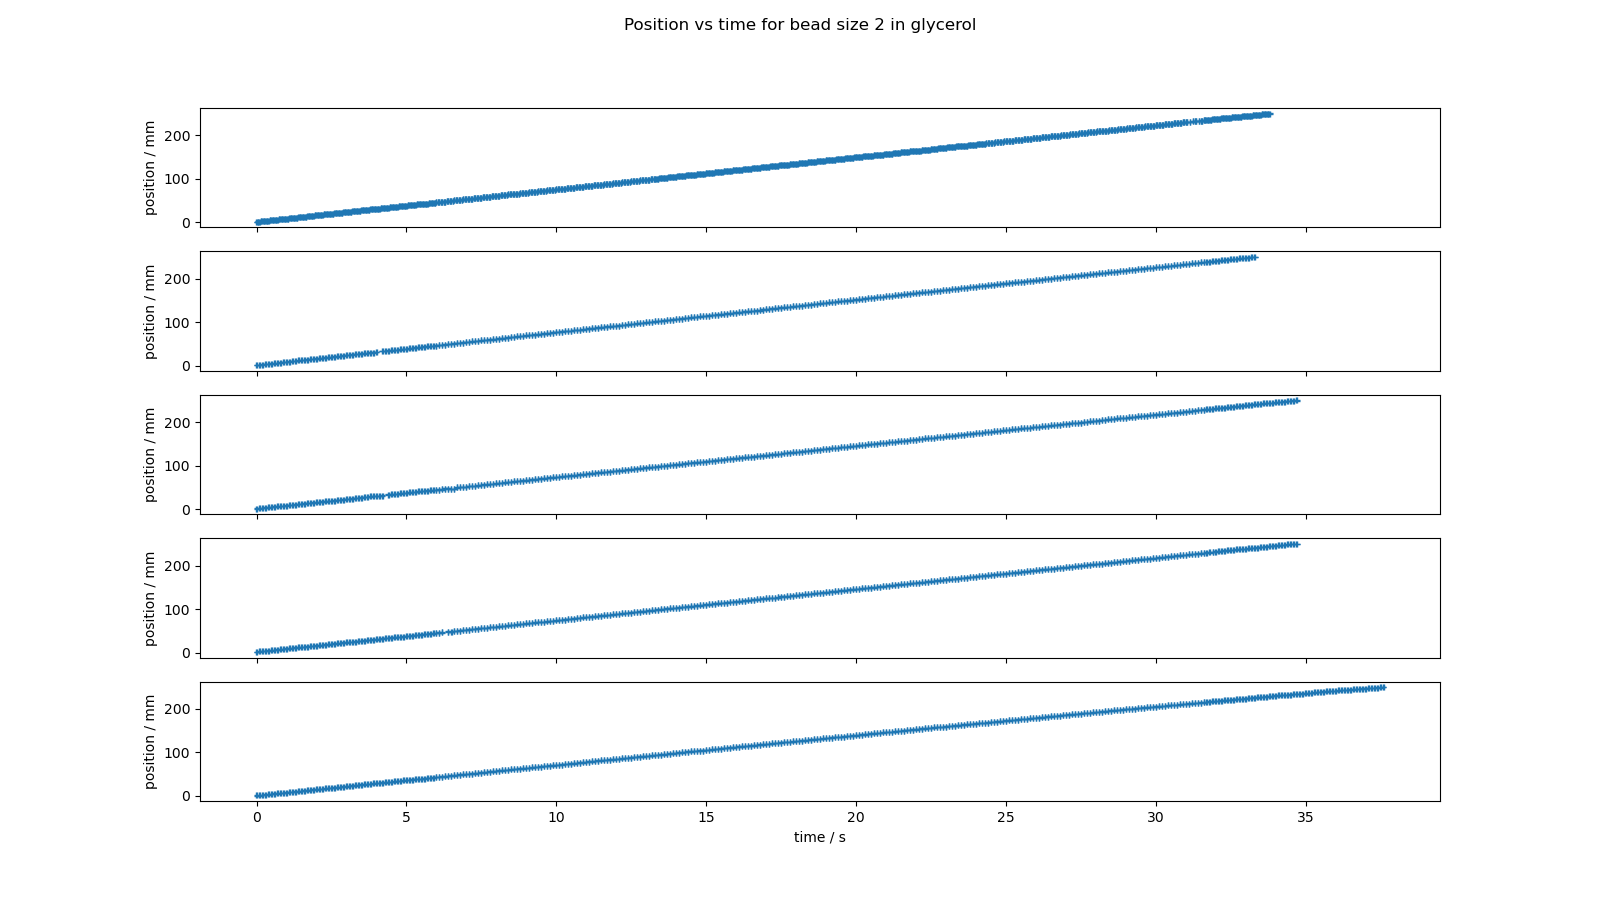
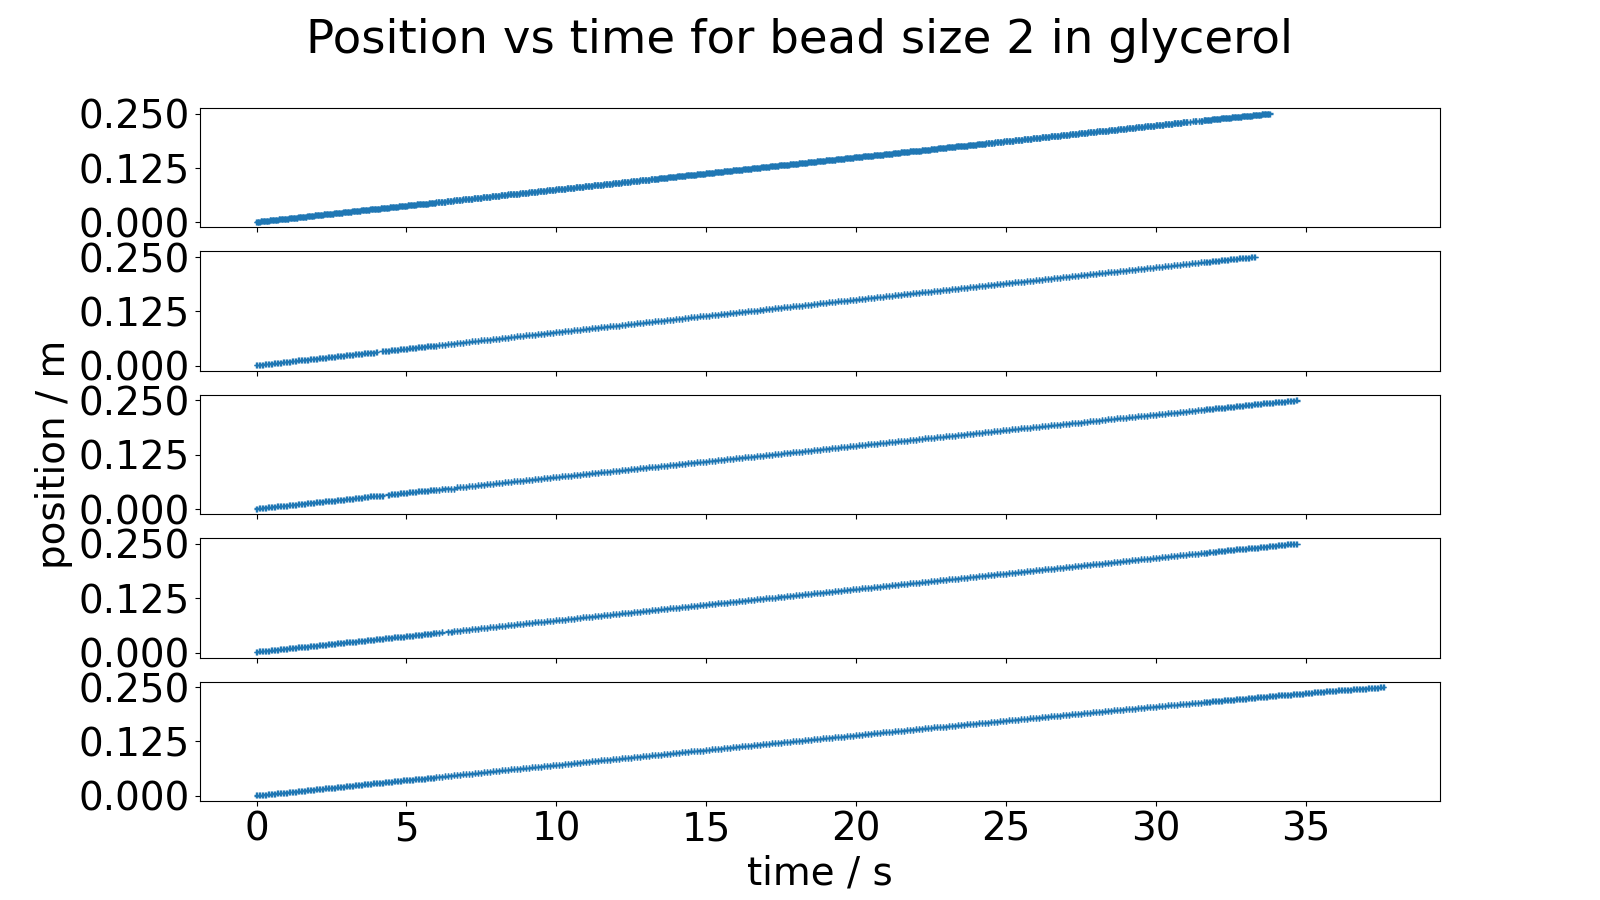
good plots, not yet residuals

diff --git a/main.py b/main.py
@@ -1,14 +1,28 @@
 import matplotlib.pyplot as plt
+from matplotlib import rc
+font = {'family' : 'DejaVu Sans',
+        'weight' : 'normal',
+        'size'   : 16}
+rc('font', **font)
+import numpy as np
+
 import fitting_and_analysis
 Output = fitting_and_analysis.Output()
 import fitting
-
 import data_loader
 import fit_models
 
 fluids = ['water', 'glycerol']
 bead_numbers = range(1, 6)
 
+
+def set_axes_labels(axs):
+    axs[2].set_ylabel('position / m')
+    axs[-1].set_xlabel('time / s')
+
+    for ax in axs:
+        y_range = ax.get_ylim()
+        ax.set_yticks([0.000, 0.125, 0.250])
 
 def plot_raw_graph(ax, fluid, bead_number, trial):
     filename = '%s/%s' %(fluid, fluid + 'bead' + str(bead_number) + 't' + str(trial))
@@ -24,9 +38,8 @@ def plot_raw_for_bead(fluid, bead_number, show=False, save=False):
         plot_raw_graph(ax=axs[index], fluid=fluid, bead_number=bead_number, trial=i)
 
     fig.suptitle('Position vs time for bead size %s in %s' %(str(bead_number), fluid))
-    for ax in axs:
-        ax.set_ylabel('position / mm')
-    axs[-1].set_xlabel('time / s')
+
+    set_axes_labels(axs=axs)
 
     if save:
         plt.savefig('plots/raw_plots/%s.png' %(fluid + '_bead' + str(bead_number) + '_raw_plots'))
@@ -42,10 +55,10 @@ def plot_fit_graph(ax, fluid, bead_number, trial, model):
     filename = '%s/%s' % (fluid, fluid + 'bead' + str(bead_number) + 't' + str(trial))
     data = data_loader.DataLoader(filename)
 
-    units_for_parameters = ('m / s')
+    units_for_parameters = ('m / s', 'm')
 
     fit = fitting.Fitting(model=model, x=data.x, x_error=data.x_error, y_measured=data.y, y_error=data.y_error,
-                              units_for_parameters=units_for_parameters, p0=(100))
+                              units_for_parameters=units_for_parameters)
 
     fit.scatter_plot_data_and_fit(ax=ax)
 
@@ -58,12 +71,11 @@ def plot_fit_for_bead(model, fluid, bead_number, show=False, save=False):
         plot_fit_graph(ax=axs[index], fluid=fluid, bead_number=bead_number, trial=i, model=model)
 
     fig.suptitle('Position vs time for bead size %s in %s' %(str(bead_number), fluid))
-    for ax in axs:
-        ax.set_ylabel('position / m')
-    axs[-1].set_xlabel('time / s')
+
+    set_axes_labels(axs=axs)
 
     if save:
-        plt.savefig('plots/fit_plots/%s.png' %(fluid + '_bead' + str(bead_number) + '_raw_plots'))
+        plt.savefig('plots/fit_plots/%s.png' %(fluid + '_bead' + str(bead_number) + '_fit_plots'))
     if show:
         plt.show()
 
@@ -75,5 +87,5 @@ def plot_fit_all_beads(model, show=False, save=False):
 
 # plot_raw_all_beads(show=False, save=True)
 
-model = fit_models.Proportional()
-plot_fit_all_beads(model=model, show=False, save=False)
+model = fit_models.Linear()
+plot_fit_all_beads(model=model, show=False, save=True)

diff --git a/fitting.py b/fitting.py
@@ -3,7 +3,7 @@ from scipy.optimize import curve_fit
 from matplotlib import rc
 font = {'family' : 'DejaVu Sans',
         'weight' : 'normal',
-        'size'   : 28}
+        'size'   : 16}
 rc('font', **font)
 from matplotlib.offsetbox import AnchoredText
 
@@ -37,22 +37,22 @@ class Fitting():
         Output.baseplot_errorbars(ax=ax, x=self.x, y=self.y_measured, yerr=self.y_error, xerr=self.x_error, label='data')
 
         if plot_fit:
-            x_for_plotting_fit = np.linspace(*ax.get_xlim(), 10000)
+            x_for_plotting_fit = np.linspace(self.x[0], self.x[-1], 10000)
 
             ax.plot(x_for_plotting_fit, self.fitted_function(x_for_plotting_fit), label='fit', linewidth=3)
 
             info_sigfigs = 3
-            info_fontsize = 28
+            info_fontsize = 14
 
             info_on_ax = self.fitted_function.parameter_info + \
                          '\n$\chi^2$ / DOF = ' + str(Output.to_sf(self.cfa.raw_chi2, sf=info_sigfigs)) + ' / ' + str(self.cfa.degrees_of_freedom) + ' = ' + str(Output.to_sf(self.cfa.reduced_chi2, sf=info_sigfigs)) + \
-                         '\n$\chi^2$ prob = ' + str(Output.to_sf(self.cfa.chi2_probability, sf=info_sigfigs))
+                         '\n$\chi^2$ prob = ' + str(np.format_float_positional(self.cfa.chi2_probability, precision=info_sigfigs, trim='k', min_digits=info_sigfigs))
 
 
-            ax_text = AnchoredText(info_on_ax, loc='lower left', frameon=False, prop=dict(fontsize=info_fontsize))
+            ax_text = AnchoredText(info_on_ax, loc='upper left', frameon=False, prop=dict(fontsize=info_fontsize))
             ax.add_artist(ax_text)
 
-        ax.legend()
+        ax.legend(loc='upper right')
 
     def plot_residuals(self, ax):
 

diff --git a/fitted_models.py b/fitted_models.py
@@ -40,12 +40,19 @@ class Linear():
 
         self.function = fit_models.Linear()
         self.number_of_parameters = self.function.number_of_parameters
+        self.parameter_names = ('m', 'c')
         self.units_for_parameters = units_for_parameters
 
-        self.parameter_info = '\nm = (' + Output.print_with_uncertainty(self.m, self.m_error) + ') ' + \
-                              self.units_for_parameters[0] + \
-                              '\nc = (' + Output.print_with_uncertainty(self.c, self.c_error) + ') ' + \
-                              self.units_for_parameters[1]
+        if units_for_parameters == None:
+            self.units_for_parameters = tuple(np.zeros(shape=self.number_of_parameters, dtype=str))
+        else:
+            self.units_for_parameters = units_for_parameters
+
+        self.parameter_info_list = [str(self.parameter_names[i]) + ' = (' + Output.print_with_uncertainty(self.popt[i],
+                                                                                                          parameter_errors[
+                                                                                                              i]) + ') ' +
+                                    self.units_for_parameters[i] for i in range(self.number_of_parameters)]
+        self.parameter_info = '\n'.join(self.parameter_info_list)
 
     def __call__(self, x):
         result = self.function(x, *self.popt)

diff --git a/fitting_and_analysis.py b/fitting_and_analysis.py
@@ -78,7 +78,7 @@ class Output():
         # else:
         #     result = float(result)
         # return result
-        result = np.format_float_positional(num, precision=sf, fractional=False, trim='-')
+        result = np.format_float_positional(num, precision=sf, fractional=False, trim='-', min_digits=sf)
         # if '.' in result:
         #     result = float(result)
         # else:

diff --git a/data_loader.py b/data_loader.py
@@ -19,7 +19,7 @@ class DataLoader():
         raw_times = cff.remove_systematic_error(raw_times)
 
         self.y = raw_positions
-        self.y_error = np.zeros_like(self.y) + 0.5
+        self.y_error = np.zeros_like(self.y) + 0.0005
 
         self.x = raw_times
         self.x_error = np.zeros_like(self.x) + 0.005
